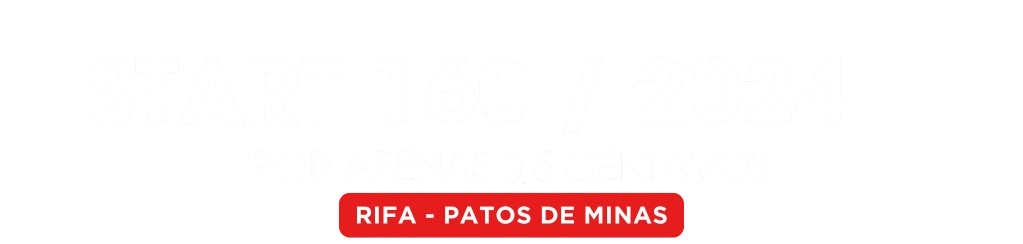
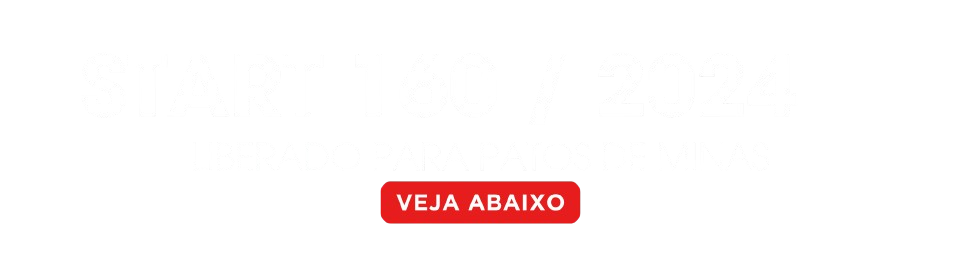
Add files via upload

Changed region(s): [[0.3122, 0.6885, 0.6868, 0.9754]]

diff --git a/start 160/index.html b/start 160/index.html
@@ -49,19 +49,18 @@ j=d.createElement(s),dl=l!='dataLayer'?'&l='+l:'';j.async=true;j.src=
 height="0" width="0" style="display:none;visibility:hidden"></iframe></noscript>
 <!-- End Google Tag Manager (noscript) -->
                        
-            <img class="img-fluid" src="./assets/img/titul.png">
+            <img class="img-fluid" src="./assets/img/titulo.png">
 
-            <!-- Mariner Aquário -->
-            <img class="img-fluid" src="./assets/img/celular.png">
-            </b></h3>
+            <!-- VSL -->
+            <div id="vid_66ca1b74ccba57000bcddb12" style="position:relative;width:100%;padding: 177.77777777777777% 0 0;"> <img id="thumb_66ca1b74ccba57000bcddb12" src="https://images.converteai.net/80a08129-38cf-4358-9254-a635b1c8409b/players/66ca1b74ccba57000bcddb12/thumbnail.jpg" style="position:absolute;top:0;left:0;width:100%;height:100%;object-fit:cover;display:block;"> <div id="backdrop_66ca1b74ccba57000bcddb12" style="position:absolute;top:0;width:100%;height:100%;-webkit-backdrop-filter:blur(5px);backdrop-filter:blur(5px);"></div> </div> <script type="text/javascript" id="scr_66ca1b74ccba57000bcddb12"> var s=document.createElement("script"); s.src="https://scripts.converteai.net/80a08129-38cf-4358-9254-a635b1c8409b/players/66ca1b74ccba57000bcddb12/player.js", s.async=!0,document.head.appendChild(s); </script> <style> .elementor-element:has(#smartplayer) { width: 100%; } </style>
+
 <p style = "font-family:Zapf-Chancery">
-  Para Participar Faça o seu Cadastro Via WhatsApp
 </p>
 
             <!-- Botão -->
             <div id="cta1" class="mt-4 d-none">
               <a href="https://api.whatsapp.com/send?phone=5535987053223&text=Quero%20saber%20mais%20sobre%20%20*Start%20160%20Vermelha*..." class="img-fluid" style="text-decoration: none;">
-              <img class="img-fluid" src="./assets/img/botao.png">
+              <img class="img-fluid" src="./assets/img/botaoo.png">
               </a>
             </div>
             
@@ -73,7 +72,7 @@ height="0" width="0" style="display:none;visibility:hidden"></iframe></noscript>
     </header>
 
     <script type="text/javascript">
-      setTimeout(() => {document.getElementById("cta1").classList.remove("d-none")}, 0); // temporização da Call to Action (em milissegundos)
+      setTimeout(() => {document.getElementById("cta1").classList.remove("d-none")}, 40000); // temporização da Call to Action (em milissegundos)
     </script>
 
     <script src="https://code.jquery.com/jquery-3.3.1.slim.min.js" integrity="sha384-q8i/X+965DzO0rT7abK41JStQIAqVgRVzpbzo5smXKp4YfRvH+8abtTE1Pi6jizo" crossorigin="anonymous"></script>
